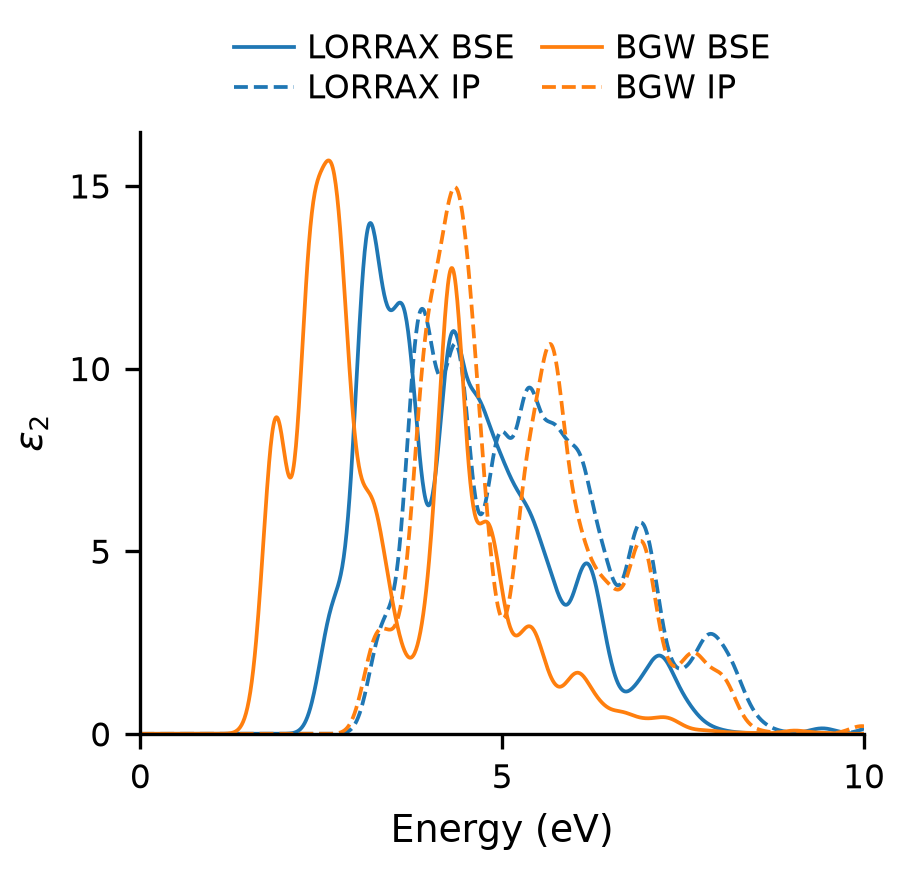
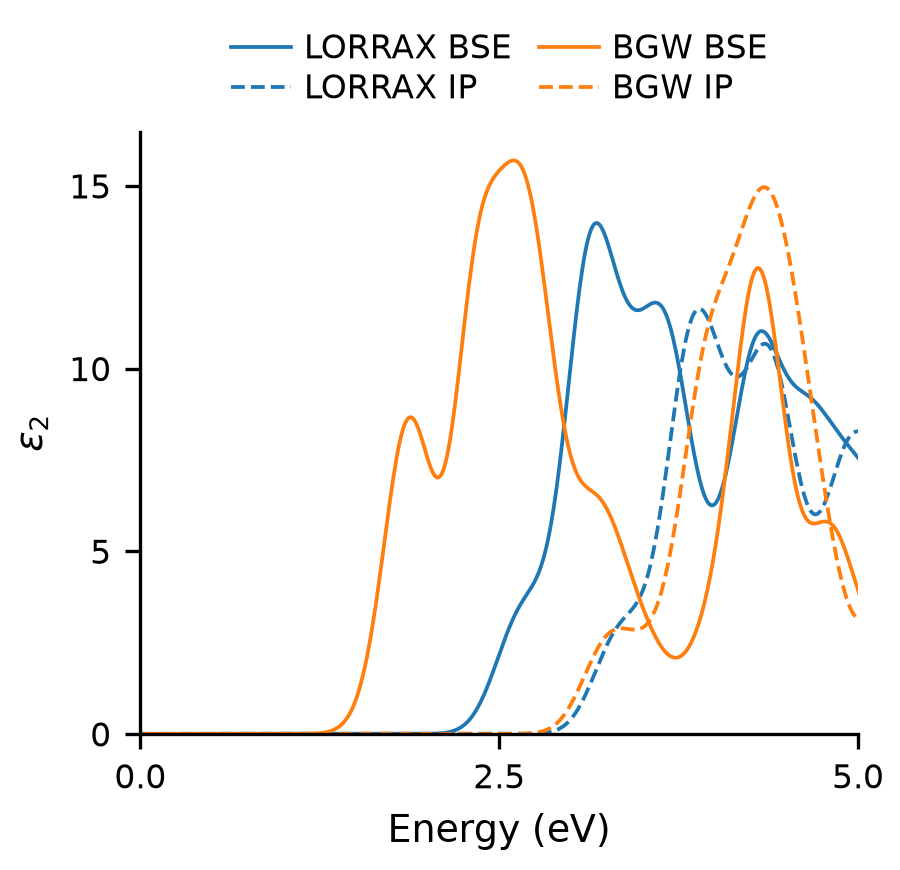
docs: focus the workshop absorption comparison on 0–5 eV
Limit the plotting window and sparse ticks to 0–5 eV, regenerate the
PNG/PDF and tutorial image, and state the range in the caption.
Spectrum data and the three-inch layout are unchanged.

Validation: executed plot, visual inspection and strict manual build.

diff --git a/examples/MoS2_SOC_2026/3-bse/3-lorrax_fully_rel/2-absorption/02-plot_absorption.py b/examples/MoS2_SOC_2026/3-bse/3-lorrax_fully_rel/2-absorption/02-plot_absorption.py
@@ -21,8 +21,8 @@ for directory, label, color in ((Path('.'), 'LORRAX', 'tab:blue'),
         data = np.loadtxt(directory / name)
         ax.plot(data[:, 0], data[:, 1], style, color=color, lw=.9,
                 label=f'{label} {kind}')
-ax.set(xlabel='Energy (eV)', ylabel=r'$\epsilon_2$', xlim=(0, 10),
-       xticks=[0, 5, 10], ylim=(0, None))
+ax.set(xlabel='Energy (eV)', ylabel=r'$\epsilon_2$', xlim=(0, 5),
+       xticks=[0, 2.5, 5], ylim=(0, None))
 ax.yaxis.set_major_locator(MaxNLocator(nbins=4, min_n_ticks=3))
 ax.minorticks_off()
 ax.spines[['top', 'right']].set_visible(False)

diff --git a/manual/docs/tutorials/mos2-soc.md b/manual/docs/tutorials/mos2-soc.md
@@ -302,7 +302,7 @@ Each dataset is aligned to its own VBM, comparing dispersions and gaps.
 [![MoS₂ optical absorption: LORRAX in blue and BerkeleyGW in orange, with solid BSE and dashed independent-particle curves.](../assets/figures/tutorial-mos2-soc-absorption.png){ width="288" }](../assets/figures/tutorial-mos2-soc-absorption.png)
 
 <figcaption style="font-size:0.86em; line-height:1.45;" markdown="1">
-**Absorption.** Blue: LORRAX; orange: BerkeleyGW. Solid: BSE; dashed:
+**Absorption (0–5 eV).** Blue: LORRAX; orange: BerkeleyGW. Solid: BSE; dashed:
 independent particle. Both use the workshop's shifted 8 × 8 × 1 grid.
 </figcaption>
 </figure>
